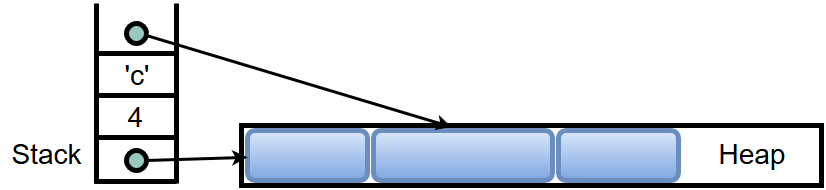
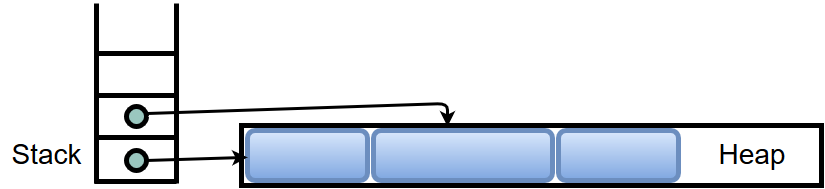
PRESENTATION - BG - Refined definitions of stack and heap in Memory. Fixed diagram not to include primitives for simplicity.

diff --git a/Sample_talk/Sample_talk.tex b/Sample_talk/Sample_talk.tex
@@ -199,19 +199,19 @@ Use parallel processing to solve!
 
 \frametitle{Memory}
 
-\emph{Heap}: contiguous memory location for storing application objects
-
-\linespace
-\linespace
-
-\emph{Stack}: memory the application directly has access to
-
-\linespace
-\linespace
-
-Objects are stored on the heap
+% Mention this is the shared memory for the JVM process and all its tasks.
+\emph{Heap}: contiguous memory location used by the JVM
 \begin{itemize}
-\item Application accesses via \emph{references}
+\item Objects are stored here
+\end{itemize}
+
+\linespace
+\linespace
+
+% Mention it has more purposes, but for our sake, it's a way to access the heap.
+\emph{Stack}: memory for short-lived, method-specific values
+\begin{itemize}
+\item Stores references to objects for the application
 \end{itemize}
 
 \linespace
